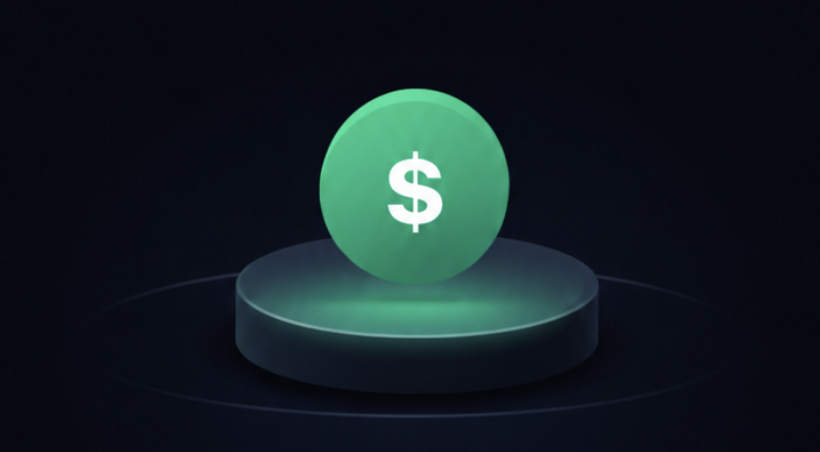
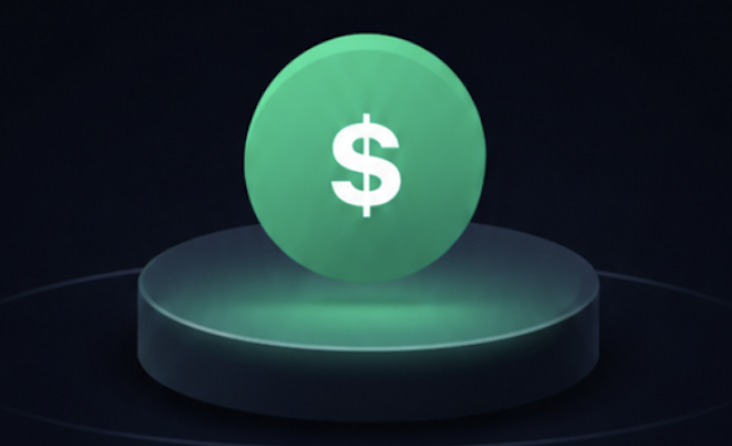
resized image

diff --git a/app/(onboarding)/monthly-income.tsx b/app/(onboarding)/monthly-income.tsx
@@ -106,7 +106,7 @@ export default function MonthlyIncomeScreen() {
               >
                 <Image
                   source={require("../../assets/pictures/money_symbol.png")}
-                  style={{ width: 220, height: 220 }}
+                  style={{ width: 200, height: 130 }}
                   resizeMode="contain"
                 />
               </MotiView>